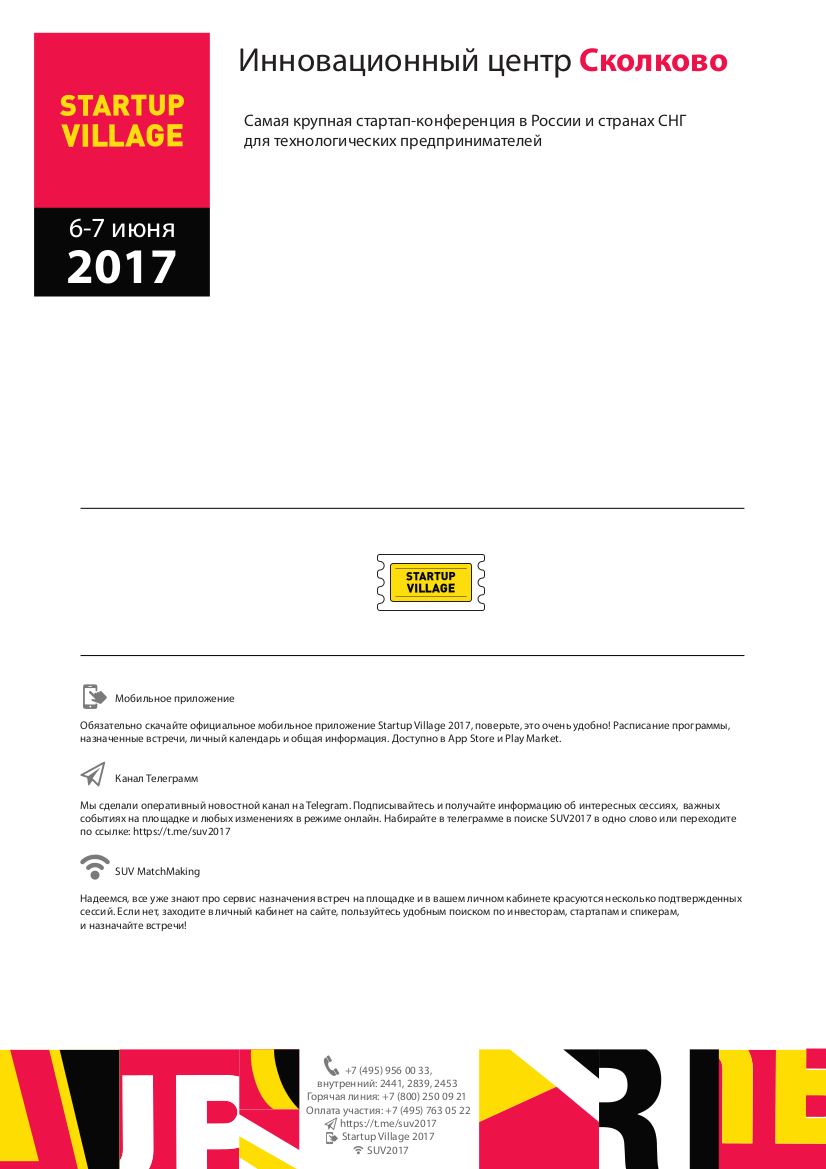
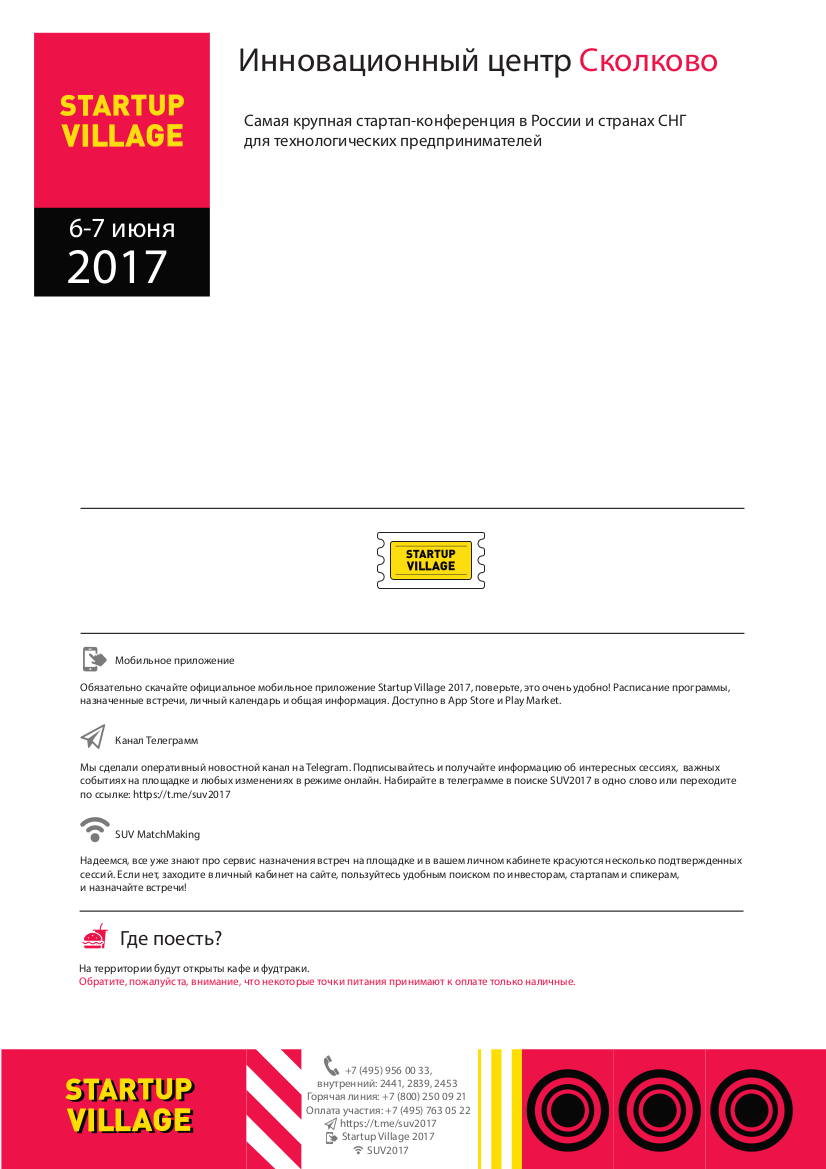
startupvillage17 билет

diff --git a/protected/modules/event/views/ticket/startupvillage17.php b/protected/modules/event/views/ticket/startupvillage17.php
@@ -51,6 +51,11 @@ if (is_array($participant)) {
         background: url("/img/ticket/startupvillage17/5.png") no-repeat;
         background-size: contain;
     }
+    .page6{
+
+        background: url("/img/ticket/startupvillage17/6.png") no-repeat;
+        background-size: contain;
+    }
 
     p{
         color:#fff;
@@ -85,3 +90,4 @@ if (is_array($participant)) {
 <div class="page page3"></div>
 <div class="page page4"></div>
 <div class="page page5"></div>
+<div class="page page6"></div>
